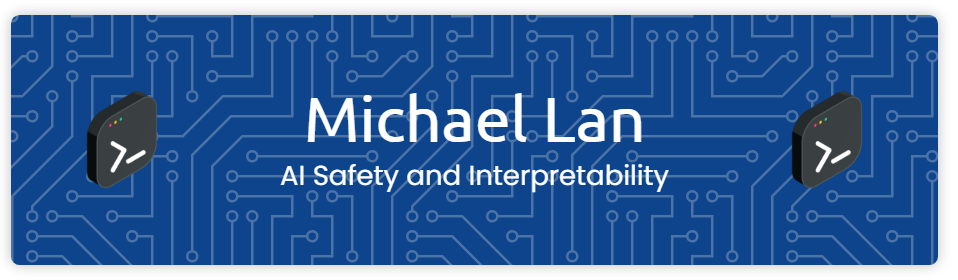
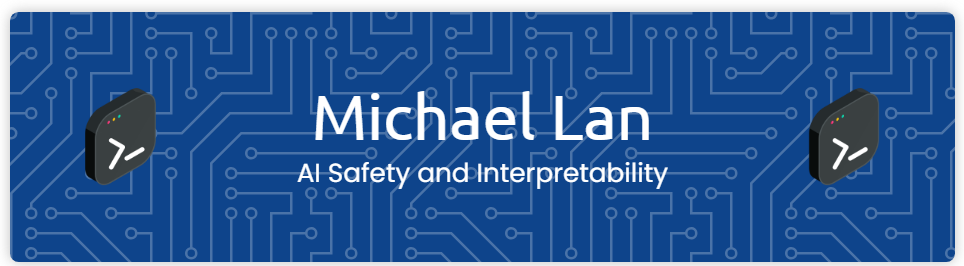
nav bar update

diff --git a/about.md b/about.md
@@ -14,6 +14,8 @@ title: Front Page
   <a href="eduBlogHome.html">Edu Blog Home</a>
 </div>
 
+<img src="banner.PNG" alt="Banner">
+
 <p align="center"><h1><b>My Long Term Goals</b></h1></p>
 
 For long term goals, with many troubles plaguing the universe, even down to the mechanisms of natural selection that do not align with reducing suffering for living beings, I believe only intelligent solutions have been able to reduce suffering, and that superintelligences being that succeed us are our only chance to solve problems beyond human limitations and flaws created by natural selection and the hinderances of death. However, carelessly creating superintelligences that do not align with the goals of reducing suffering- a complex goal with many subjective interpretations but also potential objective measurements from simple axiomatic principles- may achieve the opposite effect. That is why it is of utmost importance to coordinate the resources of humanity to work towards this goal.

diff --git a/index.md b/index.md
@@ -14,7 +14,7 @@ title: Front Page
   <a href="eduBlogHome.html">Edu Blog Home</a>
 </div>
 
-<img src="banner2.PNG" alt="Banner">
+<img src="banner.PNG" alt="Banner">
 
 <span><b>H</b></span>ello. A selection of my projects can be found below [^0]. Click on each title link to learn more:
 
